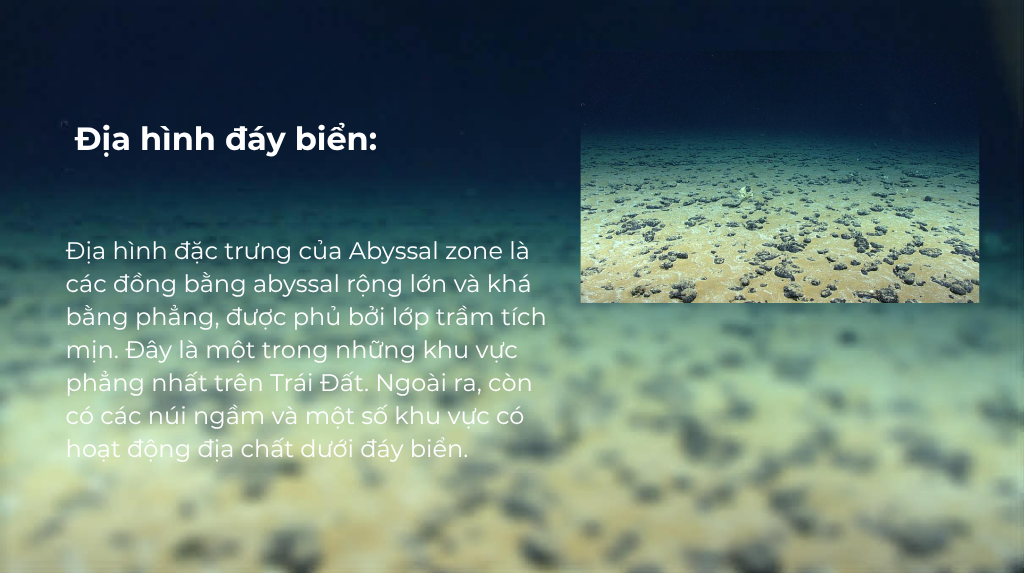
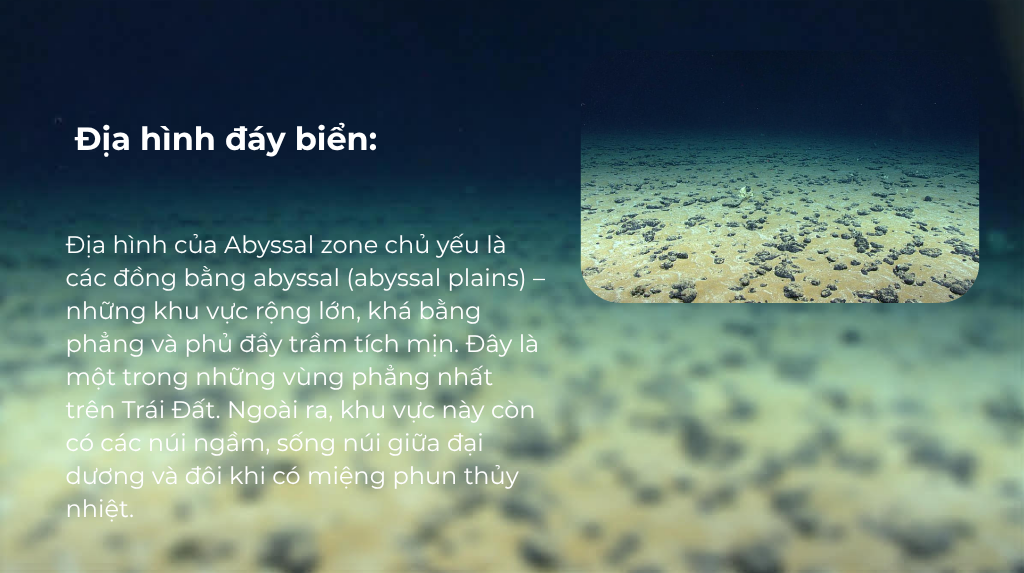
1

diff --git a/js/abyssal.js b/js/abyssal.js
@@ -51,9 +51,9 @@ document.addEventListener("DOMContentLoaded", () => {
        ============================================================ */
     const fishData = {
         "stomiidae": {
-            title: "Amphipod",
-            desc1: "Amphipod là nhóm giáp xác nhỏ sống từ nước ngọt đến đại dương sâu, có cơ thể cong, nhiều chân và thường sống ở đáy biển. Chúng ăn xác sinh vật và mảnh hữu cơ, đóng vai trò quan trọng trong việc tái chế chất dinh dưỡng.",
-            desc2: "Một số loài sống ở rãnh đại dương rất sâu (hơn 10.000 m) và có hiện tượng “khổng lồ hóa” với kích thước lớn hơn bình thường (tới 20–30 cm). Ngoài ra, nhiều amphipod biển sâu còn chứa vi nhựa, cho thấy ô nhiễm đã lan tới cả những vùng sâu nhất của đại dương.",
+            title: "Bộ giáp mềm",
+            desc1: "Bộ giáp mềm là nhóm giáp xác nhỏ sống từ nước ngọt đến đại dương sâu, có cơ thể cong, nhiều chân và thường sống ở đáy biển. Chúng ăn xác sinh vật và mảnh hữu cơ, đóng vai trò quan trọng trong việc tái chế chất dinh dưỡng.",
+            desc2: "Một số loài sống ở rãnh đại dương rất sâu (hơn 10.000 m) và có hiện tượng “khổng lồ hóa” với kích thước lớn hơn bình thường (tới 20–30 cm). Ngoài ra, nhiều  biển sâu còn chứa vi nhựa, cho thấy ô nhiễm đã lan tới cả những vùng sâu nhất của đại dương.",
             imgMain: "asset/Images/amphipod3.png",
             img1: "asset/Images/amphipod2.jpg",
             img2: "asset/Images/amphipod1.jpg",
@@ -61,7 +61,7 @@ document.addEventListener("DOMContentLoaded", () => {
             
         },
         "lophiiformes": {
-            title: "Dumpo",
+            title: "Bạch tuộc Dumbo",
             desc1: "Bạch tuộc Dumbo là loài bạch tuộc nhỏ (khoảng 30 cm), nổi bật với “tai” giống voi nên trông rất dễ thương. Chúng sống ở độ sâu cực lớn (tới ~7.000 m), thuộc nhóm bạch tuộc ô với các xúc tu có màng như chiếc ô.",
             desc2: "Khác với nhiều loài khác, Dumbo không có túi mực, nuốt con mồi nguyên con và ăn các sinh vật nhỏ dưới đáy biển. Chúng có khả năng sinh sản quanh năm và thích nghi rất tốt với môi trường đại dương sâu khắc nghiệt.",
             imgMain: "asset/Images/dumbo3.png",
@@ -71,9 +71,9 @@ document.addEventListener("DOMContentLoaded", () => {
             model3d: "asset/Model_3D/Fish_model/dumbo_octopus2.glb",
         },
         "vampyroteuthis": {
-            title: "Snailfish",
-            desc1: "Snailfish (cá ốc sên) là nhóm cá biển sâu có cơ thể mềm, gần như trong suốt và ít xương, giúp chịu được áp suất cực lớn. Chúng sống ở vùng nước rất sâu (6.000–8.000 m), thậm chí hơn 8.300 m – thuộc những loài cá sống sâu nhất từng ghi nhận.",
-            desc2: "Nhờ cấu trúc cơ thể đặc biệt và chất TMAO giúp ổn định protein, snailfish có thể tồn tại trong môi trường khắc nghiệt mà nhiều loài khác không sống được. Tuy nhiên, cơ thể chúng rất dễ bị “tan rã” khi đưa lên mặt nước do thay đổi áp suất.",
+            title: "Cá ốc sên",
+            desc1: "Cá ốc sên là nhóm cá biển sâu có cơ thể mềm, gần như trong suốt và ít xương, giúp chịu được áp suất cực lớn. Chúng sống ở vùng nước rất sâu (6.000–8.000 m), thậm chí hơn 8.300 m – thuộc những loài cá sống sâu nhất từng ghi nhận.",
+            desc2: "Nhờ cấu trúc cơ thể đặc biệt và chất TMAO giúp ổn định protein, cá ốc sên có thể tồn tại trong môi trường khắc nghiệt mà nhiều loài khác không sống được. Tuy nhiên, cơ thể chúng rất dễ bị “tan rã” khi đưa lên mặt nước do thay đổi áp suất.",
             imgMain: "asset/Images/snailfish3.png",
             img1: "asset/Images/snailfish2.jpg",
             img2: "asset/Images/snailfish1.jpg",

diff --git a/index.html b/index.html
@@ -441,20 +441,20 @@
         <!-- Thêm data-fish="tên_định_danh" vào từng thẻ -->
         <div class="fish-item fish-left" data-fish="stomiidae">
             <div class="card-inner">
-                <img src="asset/Images/amphipod.jpg" alt="Fish">
-                <div class="fish-name">Amphipod</div>
+                <img src="asset/Images/amphipod.png" alt="Fish">
+                <div class="fish-name">Bộ giáp mềm</div>
             </div>
         </div>
         <div class="fish-item fish-center" data-fish="lophiiformes">
             <div class="card-inner">
-                <img src="asset/Images/dumbo.jpg" alt="Fish">
-                <div class="fish-name">Dumbo</div>
+                <img src="asset/Images/dumbo.png" alt="Fish">
+                <div class="fish-name">Bạch tuộc Dumbo</div>
             </div>
         </div>
         <div class="fish-item fish-right" data-fish="vampyroteuthis">
             <div class="card-inner">
-                <img src="asset/Images/snailfish.jpg" alt="Fish">
-                <div class="fish-name">Snailfish</div>
+                <img src="asset/Images/snailfish.png" alt="Fish">
+                <div class="fish-name">Cá ốc sên</div>
             </div>
         </div>
     </div>
